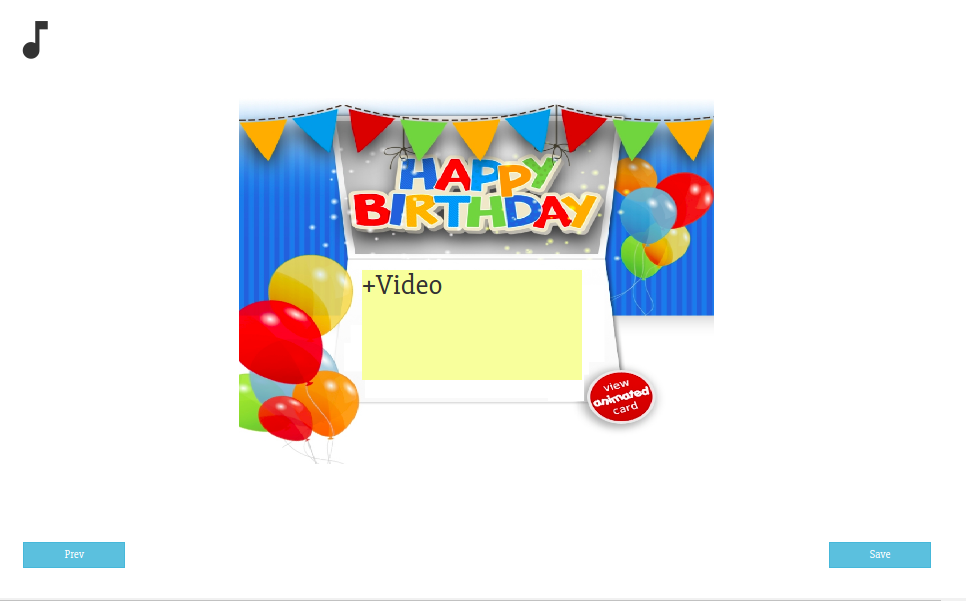
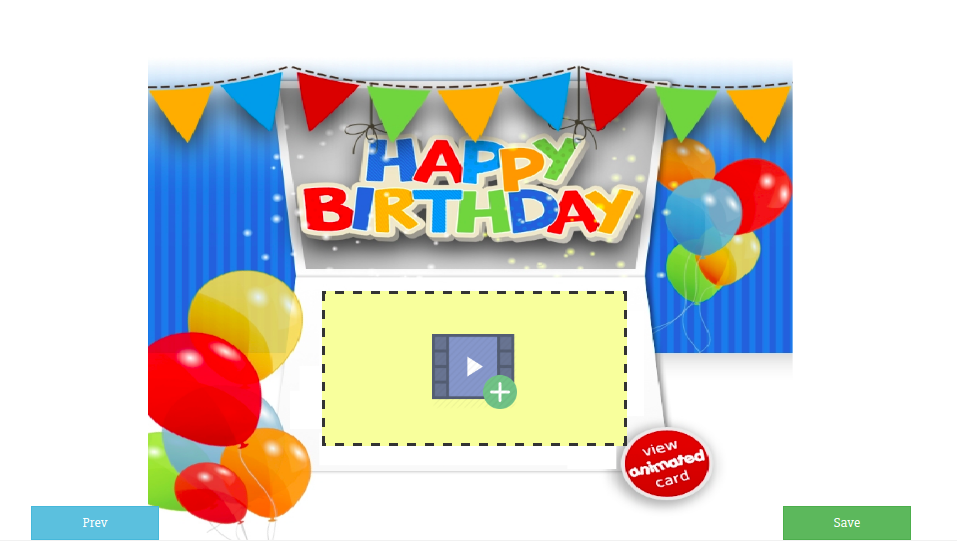
remove sound, update images of left section

diff --git a/Editing/Bigbang.html b/Editing/Bigbang.html
@@ -80,7 +80,7 @@
       <div id="panel1" class="gift-panel">
         <!-- HEADER PANEL 1 -->
         <div id="panel1_header" class="panel_header row">
-          <i id="music" class="material-icons col-xs-3">music_note</i>
+          <div class="col-xs-3"></div>
           
           <div class="col-xs-9 header_mid">
             <div><h1>HAPPY BIRTHDAY</h1></div>
@@ -116,7 +116,7 @@
       <div id="panel2" class="gift-panel">
         <!-- HEADER PANEL 2 -->
         <div id="panel2_header" class="panel_header">
-          <i id="music" class="material-icons">music_note</i>
+          <!-- <i id="music" class="material-icons">music_note</i> -->
           <div class="clear"></div>
         </div>
 
@@ -165,7 +165,7 @@
       <div id="panel3" class="gift-panel">
         <!-- HEADER PANEL 3 -->
         <div id="panel3_header" class="panel_header">    
-          <i id="music" class="material-icons">music_note</i>    
+          <!-- <i id="music" class="material-icons">music_note</i>     -->
         </div>
 
         <!-- BODY PANEL 3 -->

diff --git a/index.html b/index.html
@@ -78,14 +78,14 @@
 
         <div class="row">
           <div class="col-xs-4">
-            <img class="imgpreview unavailable" src="images/homepage/birthday3.jpg">
+            <img class="imgpreview unavailable" src="images/homepage/birthday3.png">
             <div class="btnwrapper unavailable">
               <button type="button" class="btn btn-primary">Make it!</button>
             </div>
           </div>
 
           <div class="col-xs-4">
-            <img class="imgpreview unavailable" src="images/homepage/birthday2.jpg">
+            <img class="imgpreview unavailable" src="images/homepage/birthday2.png">
             <div class="btnwrapper unavailable">
               <button type="button" class="btn btn-primary">Make it!</button>
             </div>

diff --git a/Editing/MyGirl.html b/Editing/MyGirl.html
@@ -122,7 +122,7 @@
           </div>
           
           <!-- <img id="inside-pic" src="https://encrypted-tbn0.gstatic.com/images?q=tbn:ANd9GcR99wbtT86cx9sLcd-KbYcev0L7y5QEMPocsDv1sUsFGyeXv0gL"> -->
-           <!-- style="background-color:rgba(255, 0, 0, 0)" -->
+          <!-- style="background-color:rgba(255, 0, 0, 0)" -->
           <center>
             <div id="wrapper_input3">
               <img id="input3_img" src="../images/add_image.png" style="width: 100px; height: auto" ></img>
